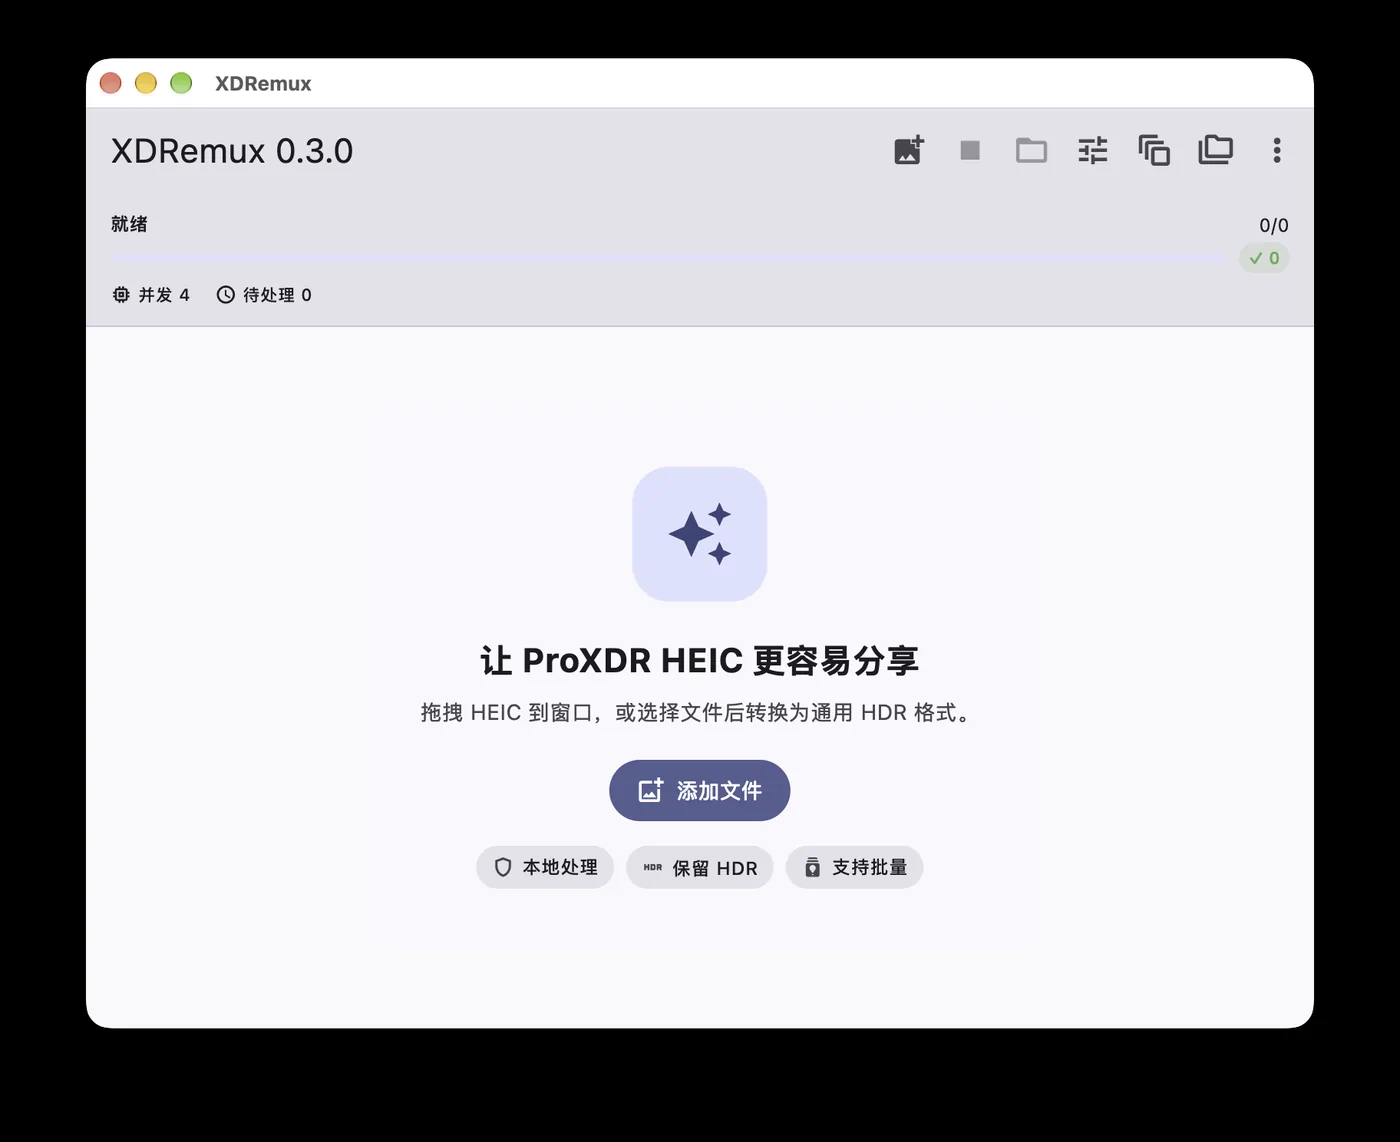
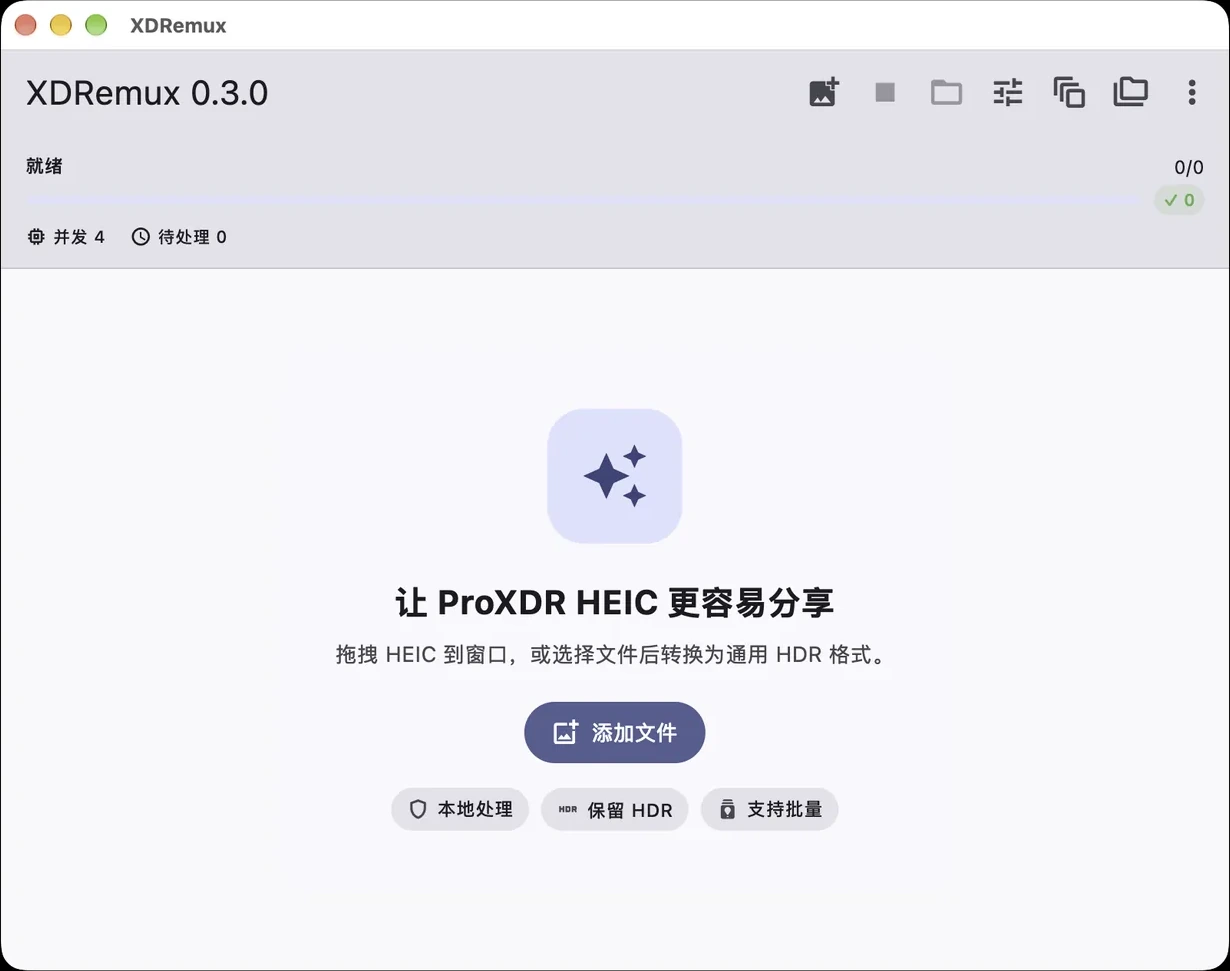
fix(app): let the desktop screenshots hug their own frame
The Windows/macOS slides used a padded dark plane plus object-fit:contain, so
the visible frame was much larger than the screenshot. Crop the black margin
baked into macos.webp (1400x1142 -> 1230x971) and size the image element to its
painted content (width/height auto with max-width/height 100%), styling the
window with a 12px radius and a CSS shadow instead of the fake dark backdrop.

diff --git a/index.html b/index.html
@@ -422,11 +422,8 @@ button{font-family:inherit}
 .screens{position:relative;max-width:1000px;aspect-ratio:16/10;margin:48px auto 0}
 .screen{position:absolute;inset:0;display:grid;place-items:center;margin:0;opacity:0;transform:scale(.96);transition:opacity .8s var(--ease),transform 1s var(--ease);pointer-events:none}
 .screen.on{opacity:1;transform:none;pointer-events:auto}
-.screen > img{width:100%;height:100%;min-height:0;min-width:0;max-height:100%;max-width:100%;object-fit:contain;filter:drop-shadow(0 26px 44px rgba(0,0,0,.2))}
-.screen[data-shot="windows"] > img,.screen[data-shot="macos"] > img{filter:drop-shadow(0 20px 34px rgba(0,0,0,.5))}
-@media (min-width:735px){
-  .screen[data-shot="windows"],.screen[data-shot="macos"]{box-sizing:border-box;padding:18px;border-radius:24px;background:linear-gradient(155deg,#242429,#0c0c0e);box-shadow:0 34px 70px rgba(0,0,0,.22),inset 0 0 0 1px rgba(255,255,255,.08)}
-}
+.screen > img{width:auto;height:auto;min-height:0;min-width:0;max-height:100%;max-width:100%;object-fit:contain;filter:drop-shadow(0 26px 44px rgba(0,0,0,.2))}
+.screen[data-shot="windows"] > img,.screen[data-shot="macos"] > img{border-radius:12px;filter:none;box-shadow:0 30px 64px rgba(0,0,0,.30),0 2px 10px rgba(0,0,0,.12)}
 .phone-frame{box-sizing:border-box;height:100%;min-height:0;max-height:100%;max-width:100%;overflow:hidden;aspect-ratio:720/1584;padding:9px;border-radius:48px;background:#1d1d1f;box-shadow:0 26px 50px rgba(0,0,0,.25),inset 0 0 0 1.5px #3a3a3e}
 .phone-frame img{display:block;width:100%;height:100%;border-radius:39px;object-fit:cover}
 .screen-cap{margin-top:24px;color:var(--fg-2);font-size:.9375rem;text-align:center}
@@ -862,7 +859,7 @@ button{font-family:inherit}
       </div>
       <div class="screens" id="screens" role="tabpanel" aria-labelledby="tab-windows" data-reveal>
         <figure class="screen on" data-shot="windows"><img src="assets/windows.webp" width="1600" height="901" alt="XDRemux Windows 版主界面"></figure>
-        <figure class="screen" data-shot="macos" aria-hidden="true"><img src="assets/macos.webp" width="1400" height="1142" alt="XDRemux macOS 版主界面" loading="lazy"></figure>
+        <figure class="screen" data-shot="macos" aria-hidden="true"><img src="assets/macos.webp" width="1230" height="971" alt="XDRemux macOS 版主界面" loading="lazy"></figure>
         <figure class="screen" data-shot="android" aria-hidden="true"><div class="phone-frame"><img src="assets/android.webp" width="720" height="1584" alt="XDRemux Android 版主界面" loading="lazy"></div></figure>
         <figure class="screen" data-shot="ios" aria-hidden="true"><div class="phone-frame"><img src="assets/ios.webp" width="720" height="1558" alt="XDRemux iOS 版主界面" loading="lazy"></div></figure>
       </div>
